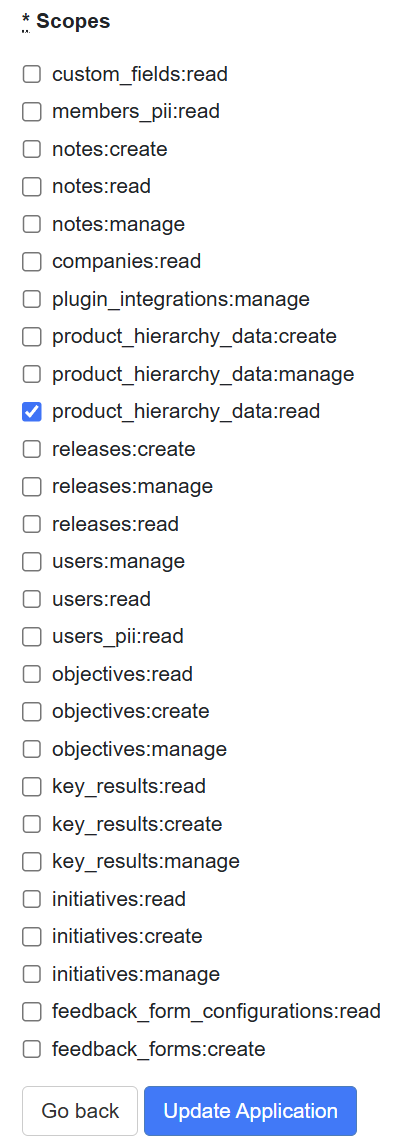
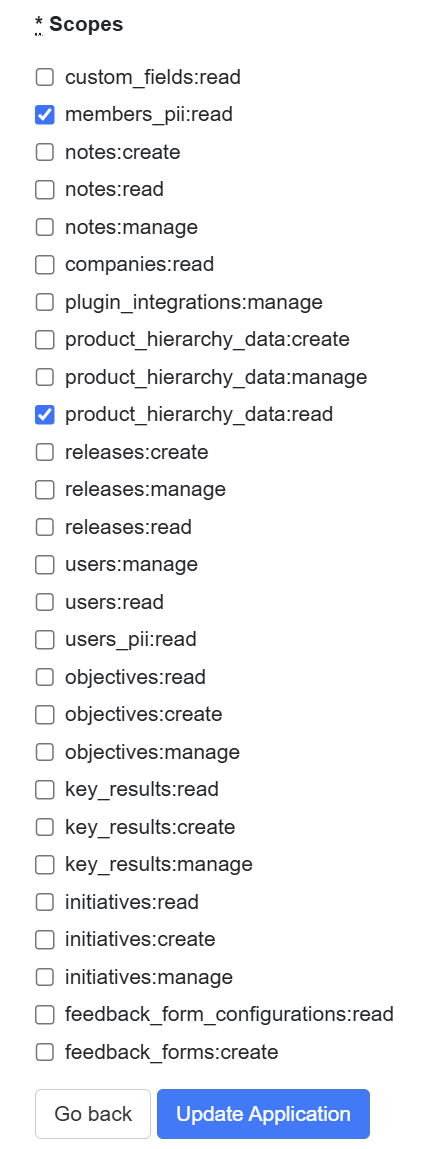
update setup documentation and improve error handling in authentication flow

Changed region(s): [[0.0584, 0.0, 0.9343, 1.0]]

diff --git a/src/pages/AdminCallback/AdminCallbackPage.tsx b/src/pages/AdminCallback/AdminCallbackPage.tsx
@@ -15,11 +15,14 @@ function AdminCallbackPage() {
     const key = useMemo(() => uuid(), []);
     const { asyncErrorHandler } = useAsyncError();
 
-    useInitialisedDeskproAppClient(client => {
-        client.oauth2()
-            .getAdminGenericCallbackUrl(key, /code=(?<token>.+?)&/, /state=(?<key>[^&]+)/)
-            .then(({ callbackUrl }) => {setCallbackURL(callbackUrl)})
-            .catch(asyncErrorHandler);
+    useInitialisedDeskproAppClient(async client => {
+        try {
+            const { callbackUrl } = await client.oauth2().getAdminGenericCallbackUrl(key, /code=(?<token>.+?)&/, /state=(?<key>[^&]+)/);
+            
+            setCallbackURL(callbackUrl);
+        } catch (error) {
+            asyncErrorHandler(error instanceof Error ? error : new Error('error getting callback URL'));
+        };
     }, [key]);
 
     if (!callbackURL) {

diff --git a/src/services/productboard/checkIsAuth.ts b/src/services/productboard/checkIsAuth.ts
@@ -1,8 +1,8 @@
 import { IDeskproClient } from '@deskpro/app-sdk';
-import getFeatures from './getFeatures';
+import baseRequest from './baseRequest';
 
 function checkIsAuth(client: IDeskproClient) {
-    return getFeatures({ client })
+    return baseRequest({ client, endpoint: '/jira-integrations' }) // endpoint used to check authentication, until a specific endpoint is created
         .then(() => Promise.resolve(true))
         .catch(() => Promise.resolve(false));
 };

diff --git a/src/hooks/useLogIn.ts b/src/hooks/useLogIn.ts
@@ -75,7 +75,11 @@ function useLogIn() {
                 });
                 navigate('/home');
             })
-            .catch(asyncErrorHandler)
+            .catch(error => {
+                logOut();
+
+                asyncErrorHandler(error);
+            })
             .finally(() => {
                 setIsLoading(false);
             });

diff --git a/SETUP.md b/SETUP.md
@@ -11,12 +11,14 @@ Input all the required fields.
 
 For the Redirect URI, copy the Callback URL from the Productboard settings tab in this admin drawer in Deskpro, then paste it in.
 
+![Fields](/docs/assets/setup/productboard-app-setup-2.png)
+
 For the scopes, check:
+- members_pii:read
 - product_hierarchy_data:read
 
 Then click "Create Application".
 
-![Fields](/docs/assets/setup/productboard-app-setup-2.png)
 ![Scopes](/docs/assets/setup/productboard-app-setup-3.png)
 
 After that, the page will refresh with the Client ID and Client Secret at the top. Copy them and keep them safe, since the Client Secret won't be shown again.
